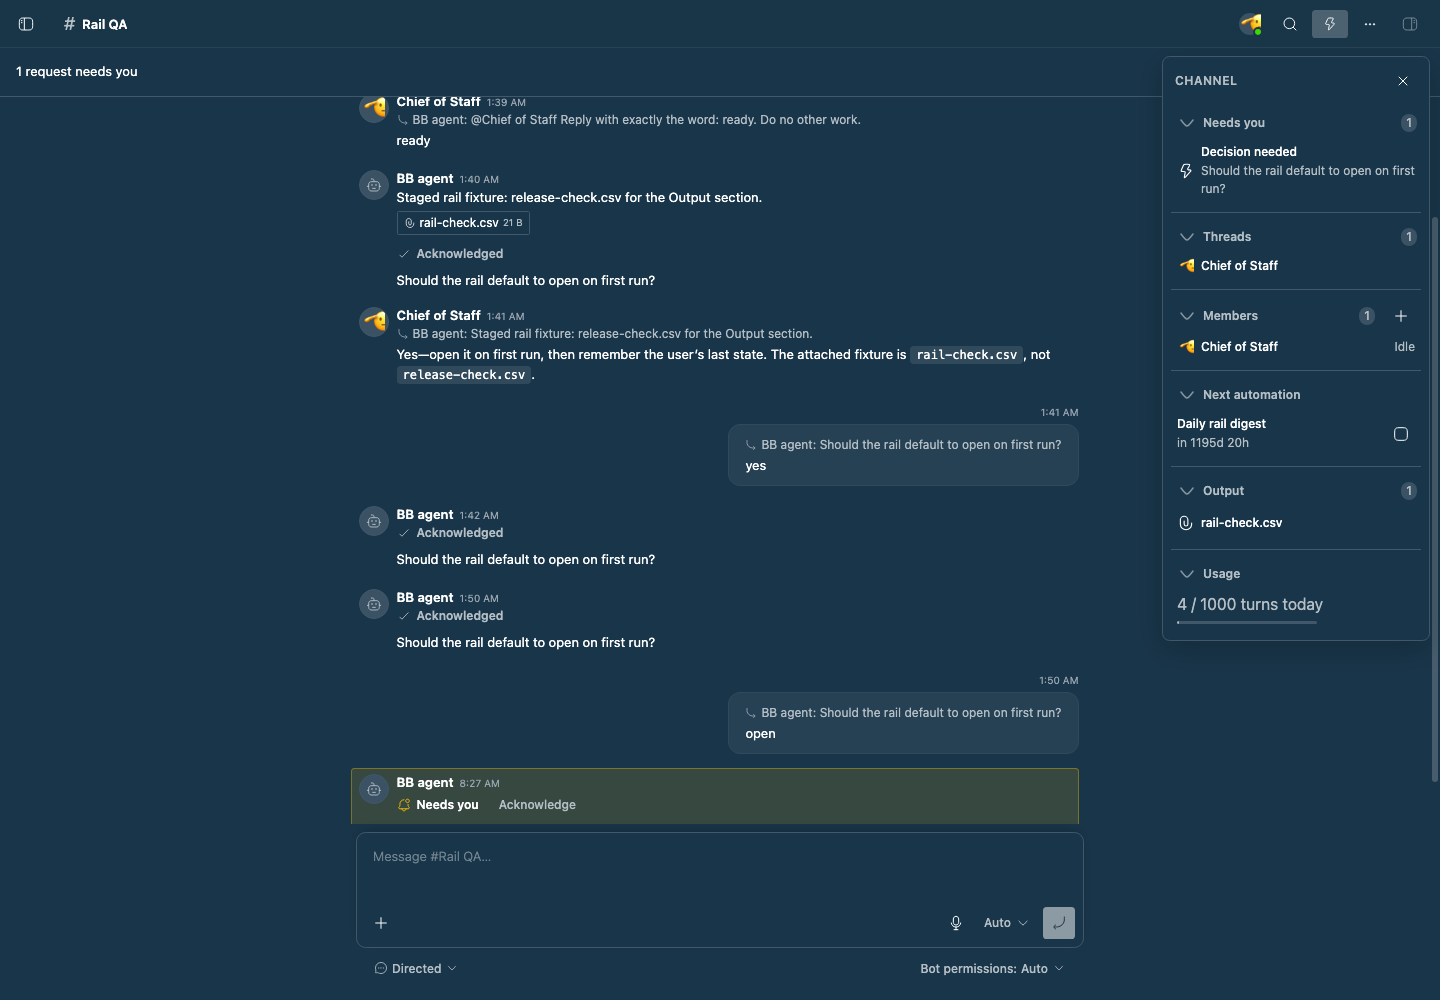
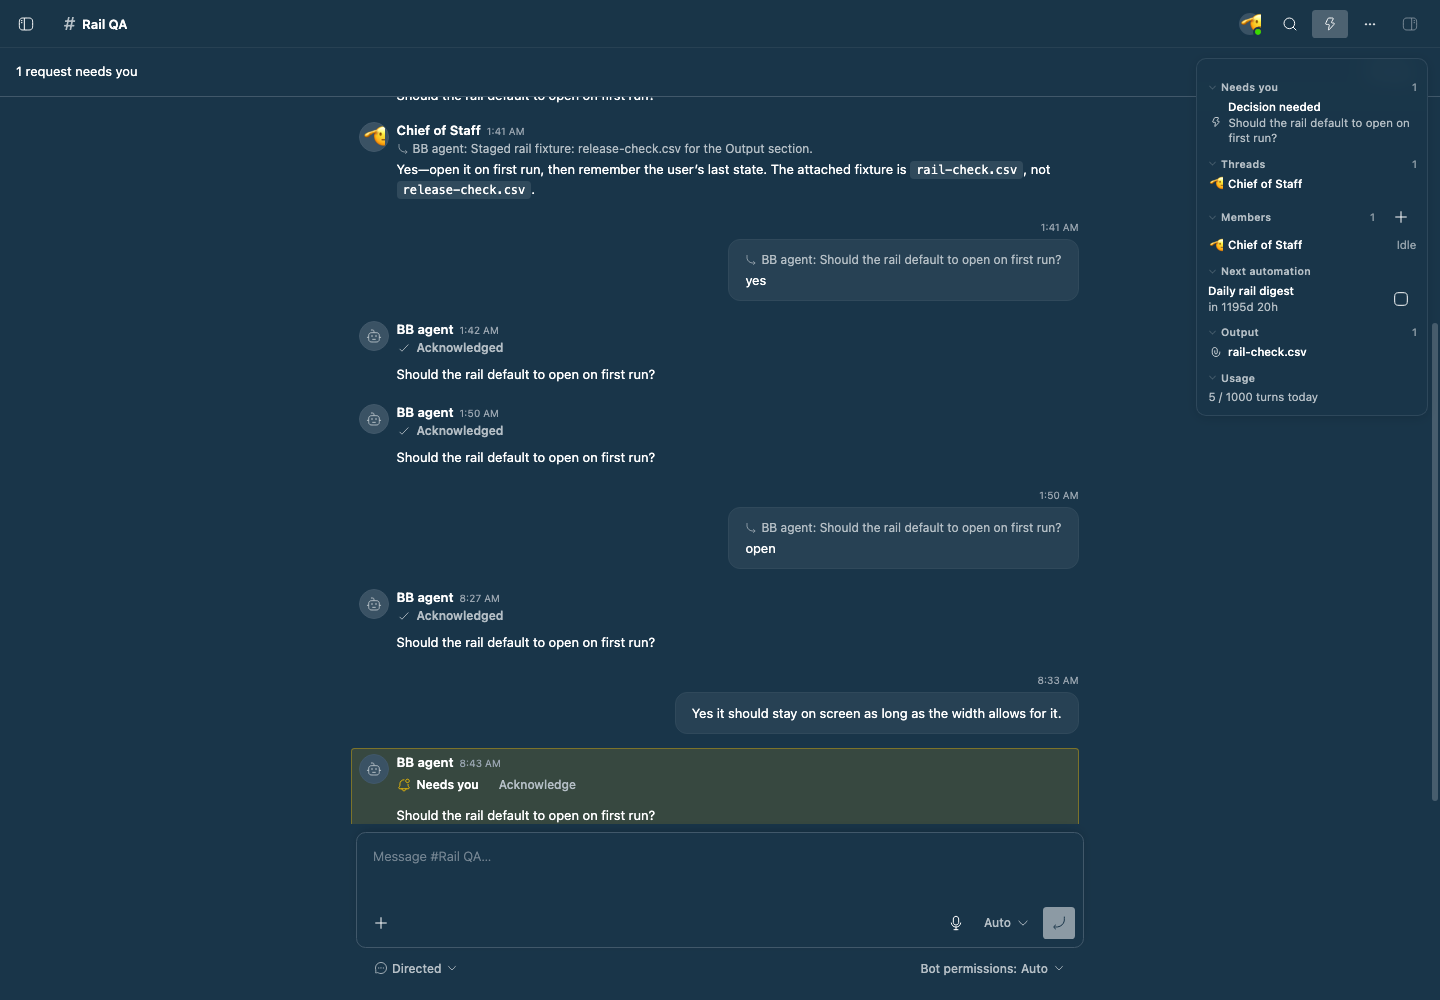
style(bot-teams): quiet the channel rail down
Feedback on the first pass: the usage line rendered in a different size to the
rest of the card, horizontal rules cut it into strips, the carets were
oversized, and the whole thing was too chunky to sit quietly beside the
transcript.

- Size everything from the card's own type scale so nothing inherits the
  page's larger text; the usage line now matches every other row.
- Drop the section rules, the usage meter and the panel title. The section
  labels already say what each group is.
- Shrink the carets, avatars, icons and row padding, and narrow the card.
- Soften the surface: hairline border, translucent background with a blur and
  a light shadow, so it floats over the transcript instead of reading as a
  panel bolted to the right.
- The close control fades in on hover rather than sitting there permanently.

diff --git a/packages/bb-plugin-bot-teams/styles.css b/packages/bb-plugin-bot-teams/styles.css
@@ -2986,23 +2986,28 @@
 
 /* Channel rail: ambient state for the open channel, beside the transcript. */
 /*
- * A card floating in the transcript's right gutter: it sits over the channel
- * rather than taking a column out of it, and it is only as tall as it needs
- * to be, so a quiet channel leaves almost nothing on screen.
+ * A quiet card floating in the transcript's right gutter. It sits over the
+ * channel rather than taking a column out of it, is only as tall as its
+ * content, and carries no rules or heavy chrome: everything sizes from the
+ * card's own type scale so nothing drifts out of step with the transcript.
  */
 .channel-rail {
   position: absolute;
   z-index: 2;
-  top: 8px;
-  right: 10px;
-  width: 268px;
-  max-height: calc(100% - 18px);
+  top: 10px;
+  right: 12px;
+  width: 232px;
+  max-height: calc(100% - 20px);
   display: flex;
   flex-direction: column;
-  border: 1px solid var(--border);
-  border-radius: calc(var(--radius, 8px) + 2px);
-  background: var(--card, var(--background));
-  box-shadow: 0 8px 30px #0003;
+  padding: 2px;
+  border: 1px solid color-mix(in oklch, var(--border) 55%, transparent);
+  border-radius: 10px;
+  background: color-mix(in oklch, var(--card, var(--background)) 88%, transparent);
+  backdrop-filter: blur(10px);
+  box-shadow: 0 2px 12px #0000001f;
+  font-size: 11.5px;
+  line-height: 1.35;
   overflow: hidden;
 }
 .bot-room-layout {
@@ -3010,25 +3015,23 @@
 }
 /*
  * The transcript centres itself, so on a wide channel the card lands in empty
- * gutter. Below that, hold the column and the composer clear of the card
- * instead of letting it cover them.
+ * gutter. Below that, hold the column and the composer clear of it.
  */
 @container channel (max-width: 1080px) {
   .bot-room[data-rail="open"] .bot-room-main {
-    padding-right: 288px;
+    padding-right: 256px;
   }
 }
 /*
- * The rail stays put wherever it fits, including alongside BB's right
- * workbench. On a tight channel it gives up width of its own before it gives
- * up the transcript's.
+ * The rail stays wherever it fits, including beside BB's right workbench. On a
+ * tight channel it gives up its own width before the transcript's.
  */
 @container channel (max-width: 820px) {
   .channel-rail {
-    width: 232px;
+    width: 208px;
   }
   .bot-room[data-rail="open"] .bot-room-main {
-    padding-right: 252px;
+    padding-right: 228px;
   }
 }
 /* Only below a readable transcript does the rail stand down. */
@@ -3040,37 +3043,45 @@
     padding-right: 0;
   }
 }
+/* No panel title: the section labels already say what each group is. */
 .channel-rail-header {
   display: flex;
-  align-items: center;
-  justify-content: space-between;
-  gap: 8px;
-  padding: 8px 6px 6px 12px;
+  justify-content: flex-end;
+  height: 18px;
+  flex-shrink: 0;
 }
-.channel-rail-heading {
-  margin: 0;
-  font-size: var(--text-xs);
-  font-weight: 600;
-  letter-spacing: 0.04em;
-  text-transform: uppercase;
+.channel-rail-close {
+  width: 18px;
+  height: 18px;
+  padding: 0;
+  opacity: 0;
   color: var(--muted-foreground);
+  transition: opacity 120ms ease;
+}
+.channel-rail:hover .channel-rail-close,
+.channel-rail:focus-within .channel-rail-close {
+  opacity: 0.75;
+}
+.channel-rail-close:hover {
+  opacity: 1;
+}
+.channel-rail-close svg {
+  width: 11px;
+  height: 11px;
 }
 .channel-rail-scroll {
   flex: 1;
   min-height: 0;
   overflow: auto;
-  padding: 6px 8px 16px;
+  padding: 0 4px 6px;
   scrollbar-width: thin;
 }
 .channel-rail-error {
-  margin: 4px 4px 8px;
-  font-size: var(--text-xs);
+  margin: 0 4px 6px;
   color: var(--destructive);
 }
 .channel-rail-section + .channel-rail-section {
-  margin-top: 10px;
-  border-top: 1px solid var(--border);
-  padding-top: 10px;
+  margin-top: 7px;
 }
 .channel-rail-section-header {
   display: flex;
@@ -3081,23 +3092,28 @@
   display: flex;
   flex: 1;
   align-items: center;
-  gap: 4px;
+  gap: 3px;
   min-width: 0;
-  padding: 2px 4px;
-  border-radius: calc(var(--radius, 8px) - 4px);
+  padding: 1px 4px;
+  border-radius: 5px;
   background: none;
   border: 0;
   cursor: pointer;
   color: var(--muted-foreground);
-  font-size: var(--text-xs);
+  font-size: 10.5px;
   font-weight: 600;
+  letter-spacing: 0.02em;
 }
 .channel-rail-section-toggle:hover {
-  background: var(--state-hover);
+  color: var(--foreground);
 }
 .channel-rail-chevron {
   display: inline-flex;
-  opacity: 0.7;
+  opacity: 0.55;
+}
+.channel-rail-chevron svg {
+  width: 11px;
+  height: 11px;
 }
 .channel-rail-section-title {
   overflow: hidden;
@@ -3106,33 +3122,31 @@
 }
 .channel-rail-count {
   margin-left: auto;
-  padding: 0 5px;
-  border-radius: 999px;
-  background: var(--muted);
   color: var(--muted-foreground);
-  font-size: var(--text-xs);
+  font-size: 10.5px;
   font-weight: 500;
+  opacity: 0.7;
 }
 .channel-rail-section-body {
   display: flex;
   flex-direction: column;
-  gap: 1px;
-  margin-top: 2px;
+  margin-top: 1px;
 }
 .channel-rail-row {
   display: flex;
   align-items: center;
-  gap: 6px;
+  gap: 5px;
   width: 100%;
   min-width: 0;
-  padding: 4px 6px;
+  padding: 3px 5px;
   border: 0;
-  border-radius: calc(var(--radius, 8px) - 4px);
+  border-radius: 5px;
   background: none;
   color: inherit;
   cursor: pointer;
   text-align: left;
-  font-size: var(--text-xs);
+  font-size: inherit;
+  line-height: inherit;
   text-decoration: none;
 }
 .channel-rail-row:hover:not(:disabled) {
@@ -3148,14 +3162,18 @@
   display: inline-flex;
   align-items: center;
   justify-content: center;
-  width: 18px;
+  width: 15px;
   flex-shrink: 0;
-  font-size: var(--text-xs);
+  font-size: 11px;
+}
+.channel-rail-avatar svg {
+  width: 12px;
+  height: 12px;
 }
 .channel-rail-name {
   display: flex;
   align-items: baseline;
-  gap: 6px;
+  gap: 5px;
   min-width: 0;
   overflow: hidden;
   text-overflow: ellipsis;
@@ -3165,16 +3183,14 @@
 .channel-rail-live {
   display: flex;
   align-items: flex-start;
-  gap: 2px;
+  gap: 1px;
 }
 .channel-rail-live-open {
   align-items: flex-start;
-  padding-block: 5px;
 }
 .channel-rail-live-text {
   display: flex;
   flex-direction: column;
-  gap: 1px;
   min-width: 0;
   flex: 1;
 }
@@ -3190,7 +3206,7 @@
 }
 .channel-rail-elapsed {
   font-variant-numeric: tabular-nums;
-  font-size: var(--text-xs);
+  opacity: 0.8;
 }
 .channel-rail-queued {
   font-style: italic;
@@ -3198,27 +3214,43 @@
 .channel-rail-state {
   margin-left: auto;
   flex-shrink: 0;
-  font-size: var(--text-xs);
+  opacity: 0.8;
 }
 .channel-rail-state[data-state="working"] {
   color: var(--primary, var(--foreground));
+  opacity: 1;
 }
 .channel-rail-state[data-state="attention"] {
   color: var(--destructive);
+  opacity: 1;
 }
 .channel-rail-stop {
   flex-shrink: 0;
-  height: 24px;
-  width: 24px;
+  height: 20px;
+  width: 20px;
   padding: 0;
+  opacity: 0.6;
+}
+.channel-rail-stop:hover:not(:disabled) {
+  opacity: 1;
+}
+.channel-rail-stop svg,
+.channel-rail-automation .bot-button svg {
+  width: 11px;
+  height: 11px;
+}
+.channel-rail-working svg,
+.channel-rail-row .channel-working svg {
+  width: 12px;
+  height: 12px;
 }
 .channel-rail-routing {
   display: flex;
   align-items: center;
-  gap: 6px;
-  padding: 4px 6px;
+  gap: 5px;
+  padding: 3px 5px;
+  margin: 0;
   color: var(--muted-foreground);
-  font-size: var(--text-xs);
 }
 .channel-rail-attention .channel-rail-activity {
   white-space: normal;
@@ -3229,31 +3261,13 @@
 .channel-rail-automation {
   display: flex;
   align-items: center;
-  gap: 2px;
+  gap: 1px;
 }
-.channel-rail-empty {
-  margin: 2px 6px;
-  color: var(--muted-foreground);
-  font-size: var(--text-xs);
-}
+.channel-rail-empty,
 .channel-rail-usage {
-  padding: 2px 6px 0;
-}
-.channel-rail-meter {
-  height: 3px;
-  /* Inset, so a barely-used channel reads as a meter and not a section rule. */
-  max-width: 140px;
-  margin-top: 5px;
-  border-radius: 999px;
-  background: var(--border);
-  overflow: hidden;
-}
-.channel-rail-meter > span {
-  display: block;
-  height: 100%;
-  min-width: 2px;
-  border-radius: 999px;
-  background: var(--muted-foreground);
+  margin: 0;
+  padding: 2px 5px;
+  color: var(--muted-foreground);
 }
 .channel-rail-toggle {
   position: relative;
@@ -3262,8 +3276,8 @@
   position: absolute;
   top: 5px;
   right: 5px;
-  width: 6px;
-  height: 6px;
+  width: 5px;
+  height: 5px;
   border-radius: 50%;
   background: var(--primary, var(--foreground));
 }

diff --git a/packages/bb-plugin-bot-teams/channel-rail-view.tsx b/packages/bb-plugin-bot-teams/channel-rail-view.tsx
@@ -403,10 +403,10 @@ export function ChannelRail({
   return (
     <aside className="channel-rail" aria-label={`#${room.name} details`}>
       <div className="channel-rail-header">
-        <h2 className="channel-rail-heading">Channel</h2>
         <Button
           variant="ghost"
           size="sm"
+          className="channel-rail-close"
           aria-label="Hide channel details"
           onClick={onClose}
         >
@@ -617,23 +617,10 @@ export function ChannelRail({
             collapsed={isCollapsed("usage")}
             onToggle={toggle}
           >
-            <div className="channel-rail-usage">
-              <p className="channel-rail-activity">
-                {usage.turns} / {usage.limits.turnsPerDay} turns today
-                {usage.errors > 0 && ` · ${usage.errors} failed`}
-              </p>
-              <div
-                className="channel-rail-meter"
-                role="img"
-                aria-label={`${usage.turns} of ${usage.limits.turnsPerDay} turns used today`}
-              >
-                <span
-                  style={{
-                    width: `${Math.min(100, Math.round((usage.turns / Math.max(1, usage.limits.turnsPerDay)) * 100))}%`,
-                  }}
-                />
-              </div>
-            </div>
+            <p className="channel-rail-usage">
+              {usage.turns} / {usage.limits.turnsPerDay} turns today
+              {usage.errors > 0 && ` · ${usage.errors} failed`}
+            </p>
           </RailSection>
         )}
       </div>
